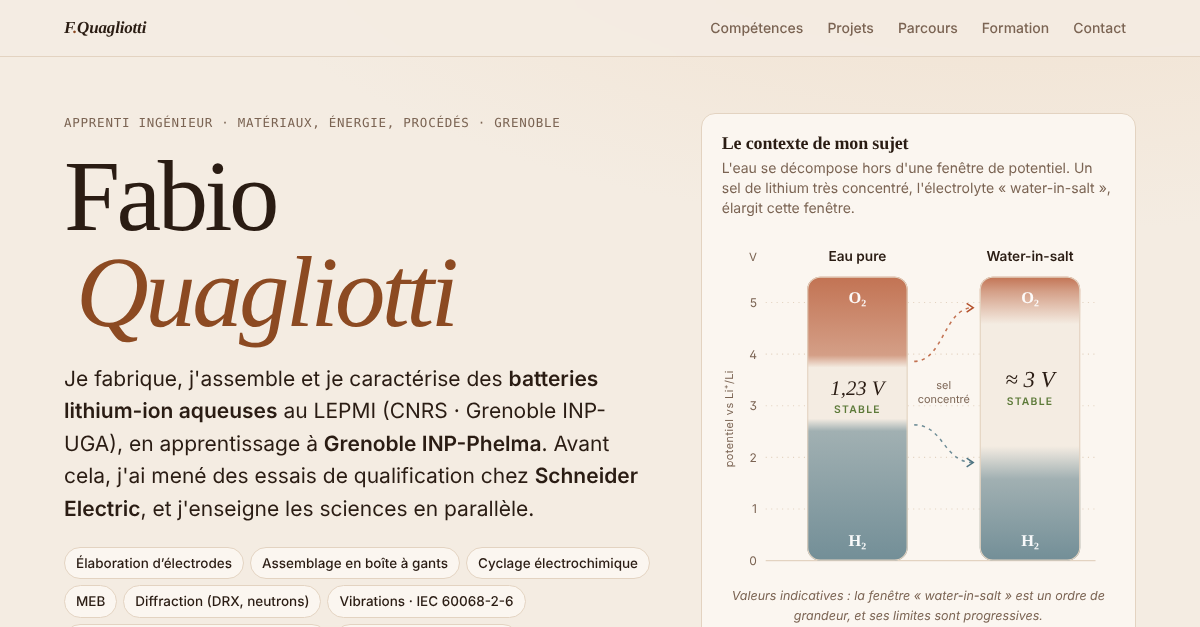
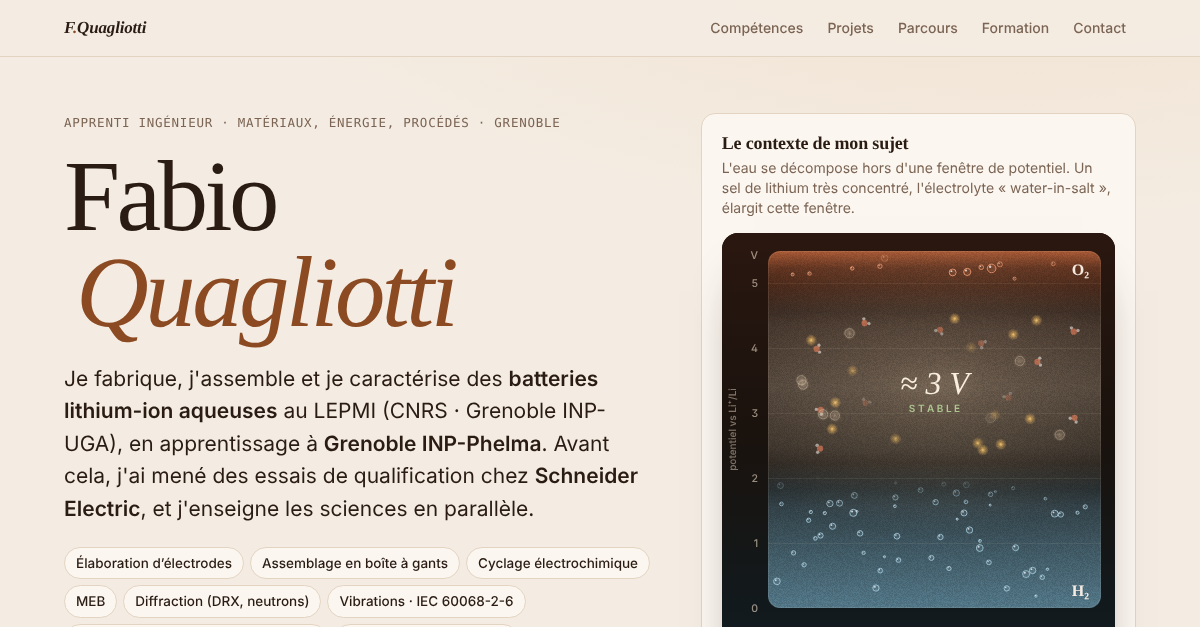
Add files via upload

Changed region(s): [[0.5858, 0.3636, 0.9558, 1.0]]

diff --git a/index.html b/index.html
@@ -456,6 +456,21 @@ table.def td:first-child{font-family:var(--mono);font-size:12.5px;color:var(--ac
 /* --- v9 : pas de panneaux collants sur mobile --- */
 @media (max-width:900px){ .proj-grid aside{position:static} }
 @media (max-width:860px){ .evidence{position:static;scroll-margin-top:72px} }
+
+/* --- v10 : cellule animée --- */
+.eswfig{margin:4px 0 16px;border-radius:16px;overflow:hidden;background:#1A120D;box-shadow:0 26px 50px -32px rgba(40,18,6,.85), inset 0 0 0 1px rgba(255,230,205,.06)}
+.eswfig canvas{display:block;width:100%;height:380px}
+.eswctl{display:grid;grid-template-columns:auto 1fr auto;gap:14px;align-items:center;padding:10px 16px 16px;background:linear-gradient(#111A1E,#0F1517)}
+.eswctl button{background:none;border:0;color:#EADCCB;font:600 12.5px/1.2 var(--body);cursor:pointer;padding:6px 0;opacity:.55;transition:opacity .2s}
+.eswctl button[aria-pressed="true"]{opacity:1}
+.eswctl button:hover{opacity:.9}
+.eswctl .trk{position:relative;padding-bottom:16px}
+.eswctl input[type=range]{-webkit-appearance:none;appearance:none;width:100%;height:4px;border-radius:4px;margin:8px 0 0;background:linear-gradient(90deg,rgba(241,222,198,.18),rgba(241,222,198,.85));cursor:pointer}
+.eswctl input[type=range]::-webkit-slider-thumb{-webkit-appearance:none;appearance:none;width:18px;height:18px;border-radius:50%;background:#F6E7D3;border:0;box-shadow:0 0 0 5px rgba(246,231,211,.14),0 0 18px rgba(246,214,170,.7)}
+.eswctl input[type=range]::-moz-range-thumb{width:18px;height:18px;border-radius:50%;background:#F6E7D3;border:0;box-shadow:0 0 0 5px rgba(246,231,211,.14),0 0 18px rgba(246,214,170,.7)}
+.eswctl input[type=range]:focus-visible{outline:2px solid #F6E7D3;outline-offset:6px}
+.eswctl .mid{position:absolute;left:50%;bottom:0;transform:translateX(-50%);font:500 11px/1 var(--body);color:#B9A08A;white-space:nowrap;letter-spacing:.02em}
+@media (max-width:420px){ .eswctl{gap:10px;padding:10px 12px 14px} .eswctl button{font-size:11.5px} }
 </style>
 </head>
 <body>
@@ -492,7 +507,14 @@ table.def td:first-child{font-family:var(--mono);font-size:12.5px;color:var(--ac
       <aside class="esw" aria-labelledby="esw-t">
         <h2 id="esw-t">Le contexte de mon sujet</h2>
         <p class="sub">L'eau se décompose hors d'une fenêtre de potentiel. Un sel de lithium très concentré, l'électrolyte « water-in-salt », élargit cette fenêtre.</p>
-        <svg id="esw-svg" viewBox="0 0 360 320" role="img" aria-label="Comparaison sur une même échelle de potentiel : la fenêtre de stabilité de l'eau pure, 1,23 volt, et celle d'un électrolyte water-in-salt, de l'ordre de 3 volts."></svg>
+        <figure class="eswfig">
+          <canvas id="esw-cv" role="img" aria-label="Cellule animée sur une échelle de potentiel. En haut, l'oxydation de l'eau dégage de l'O₂ ; en bas, sa réduction dégage de l'H₂ ; au centre, la zone où l'électrolyte est stable. Avec un sel concentré, la fenêtre stable passe de 1,23 V pour l'eau pure à environ 3 V pour l'électrolyte water-in-salt."></canvas>
+          <div class="eswctl">
+            <button type="button" id="esw-bw" aria-pressed="false">Eau pure</button>
+            <div class="trk"><input type="range" id="esw-r" min="0" max="100" step="any" value="0" aria-label="Concentration en sel, de l'eau pure à l'électrolyte water-in-salt"><span class="mid" aria-hidden="true">sel concentré →</span></div>
+            <button type="button" id="esw-bs" aria-pressed="true">Water-in-salt</button>
+          </div>
+        </figure>
         <div class="eqs">
           <p><span class="eq-k"><i style="background:var(--oer)"></i>Oxydation · haut</span><span class="eq">4 OH⁻ → O₂ + 2 H₂O + 4 e⁻</span></p>
           <p><span class="eq-k"><i style="background:var(--her)"></i>Réduction · bas</span><span class="eq">2 H₂O + 2 e⁻ → H₂ + 2 OH⁻</span></p>
@@ -1052,62 +1074,200 @@ function route(){
 }
 window.addEventListener('hashchange',route);
 
-/* Widget fenêtre de stabilité : deux colonnes sur une même échelle (ordres de grandeur) */
+/* Widget fenêtre de stabilité : cellule animée (canvas), mêmes contenus que la version précédente */
 (function(){
-  const svg=$('#esw-svg'); if(!svg) return;
-  const VMAX=5.5, T=40, B=300, yv=v=>B-(B-T)*v/VMAX;
-  const WATER={her:2.63,oer:3.86,f:.12}, WISE={her:1.9,oer:4.9,f:.32};
-  const CA={x:78,w:92}, CB={x:236,w:92};
-  const D='font-family:var(--display);', S='font-family:var(--body);';
-  function grad(id,st){ const o=v=>Math.max(0,Math.min(1,(yv(v)-T)/(B-T)));
-    return `<linearGradient id="${id}" x1="0" y1="${T}" x2="0" y2="${B}" gradientUnits="userSpaceOnUse">
-      <stop offset="0" stop-color="var(--oer)" stop-opacity=".78"/>
-      <stop offset="${o(st.oer+st.f)}" stop-color="var(--oer)" stop-opacity=".5"/>
-      <stop offset="${o(st.oer-st.f)}" stop-color="var(--oer)" stop-opacity="0"/>
-      <stop offset="${o(st.her+st.f)}" stop-color="var(--her)" stop-opacity="0"/>
-      <stop offset="${o(st.her-st.f)}" stop-color="var(--her)" stop-opacity=".5"/>
-      <stop offset="1" stop-color="var(--her)" stop-opacity=".78"/></linearGradient>`; }
-  function col(c,id,st,title,label,approx){
-    const mid=(yv(st.oer)+yv(st.her))/2;
-    let s=`<text x="${c.x+c.w/2}" y="${T-14}" text-anchor="middle" style="${S}font-size:12.5px;font-weight:600;fill:var(--ink)">${title}</text>`;
-    s+=`<rect x="${c.x}" y="${T}" width="${c.w}" height="${B-T}" rx="12" fill="var(--paper)"/>`;
-    s+=`<rect x="${c.x}" y="${T}" width="${c.w}" height="${B-T}" rx="12" fill="url(#${id})"/>`;
-    s+=`<rect x="${c.x+.5}" y="${T+.5}" width="${c.w-1}" height="${B-T-1}" rx="11.5" fill="none" stroke="var(--line)"/>`;
-    s+=`<text x="${c.x+c.w/2}" y="${T+24}" text-anchor="middle" style="${D}font-size:15px;font-weight:600;fill:#fff;opacity:.95">O₂</text>`;
-    s+=`<text x="${c.x+c.w/2}" y="${B-13}" text-anchor="middle" style="${D}font-size:15px;font-weight:600;fill:#fff;opacity:.95">H₂</text>`;
-    s+=`<text x="${c.x+c.w/2}" y="${mid+2}" text-anchor="middle" style="${D}font-size:${approx?21:19}px;font-style:italic;fill:var(--ink)">${label}</text>`;
-    s+=`<text x="${c.x+c.w/2}" y="${mid+18}" text-anchor="middle" style="${S}font-size:9.5px;letter-spacing:.12em;fill:var(--ok);font-weight:600">STABLE</text>`;
-    return s; }
-  function draw(b){
-    let s=`<defs>${grad('ga',WATER)}${grad('gb',b)}</defs>`;
-    for(let v=0;v<=5;v++){ s+=`<line x1="40" x2="${CB.x+CB.w+14}" y1="${yv(v)}" y2="${yv(v)}" stroke="var(--line)" stroke-width="1" stroke-dasharray="${v?'1 4':''}"/>`;
-      s+=`<text x="32" y="${yv(v)+4}" text-anchor="end" style="${S}font-size:11px;fill:var(--muted)">${v}</text>`; }
-    s+=`<text x="32" y="${T-14}" text-anchor="end" style="${S}font-size:10.5px;fill:var(--muted)">V</text>`;
-    s+=`<text x="10" y="${(T+B)/2}" text-anchor="middle" transform="rotate(-90 10 ${(T+B)/2})" style="${S}font-size:10px;fill:var(--muted);letter-spacing:.04em">potentiel vs Li⁺/Li</text>`;
-    // connecteurs d'élargissement
-    const x1=CA.x+CA.w+6, x2=CB.x-6;
-    s+=`<path d="M${x1} ${yv(WATER.oer)} C ${(x1+x2)/2} ${yv(WATER.oer)}, ${(x1+x2)/2} ${yv(b.oer)}, ${x2} ${yv(b.oer)}" fill="none" stroke="var(--oer)" stroke-width="1.4" stroke-dasharray="3 4" opacity=".8"/>`;
-    s+=`<path d="M${x1} ${yv(WATER.her)} C ${(x1+x2)/2} ${yv(WATER.her)}, ${(x1+x2)/2} ${yv(b.her)}, ${x2} ${yv(b.her)}" fill="none" stroke="var(--her)" stroke-width="1.4" stroke-dasharray="3 4" opacity=".8"/>`;
-    s+=`<path d="M${x2-6} ${yv(b.oer)-4} L${x2} ${yv(b.oer)} L${x2-6} ${yv(b.oer)+4}" fill="none" stroke="var(--oer)" stroke-width="1.4"/>`;
-    s+=`<path d="M${x2-6} ${yv(b.her)-4} L${x2} ${yv(b.her)} L${x2-6} ${yv(b.her)+4}" fill="none" stroke="var(--her)" stroke-width="1.4"/>`;
-    s+=`<text x="${(x1+x2)/2}" y="${(yv(b.oer)+yv(b.her))/2+4}" text-anchor="middle" style="${S}font-size:10px;fill:var(--muted)">sel</text>`;
-    s+=`<text x="${(x1+x2)/2}" y="${(yv(b.oer)+yv(b.her))/2+16}" text-anchor="middle" style="${S}font-size:10px;fill:var(--muted)">concentré</text>`;
-    s+=col(CA,'ga',WATER,'Eau pure','1,23 V',false);
-    s+=col(CB,'gb',b,'Water-in-salt','≈ 3 V',true);
-    svg.innerHTML=s; }
+  const cv=$('#esw-cv'); if(!cv) return;
+  const ctx=cv.getContext('2d');
+  const R=$('#esw-r'), bW=$('#esw-bw'), bS=$('#esw-bs');
   const reduce=matchMedia('(prefers-reduced-motion: reduce)').matches;
-  if(reduce){ draw(WISE); return; }
-  draw(WISE);
-  // petite animation d'élargissement, depuis un état final déjà visible
-  setTimeout(()=>{ const t0=performance.now(), dur=1100;
-    const step=now=>{ const k=Math.min(1,(now-t0)/dur), e=k<.5?4*k*k*k:1-Math.pow(-2*k+2,3)/2;
-      const m=(a,b)=>a+(b-a)*e;
-      draw({her:m(WATER.her,WISE.her),oer:m(WATER.oer,WISE.oer),f:m(WATER.f,WISE.f)}); if(k<1) requestAnimationFrame(step); };
-    requestAnimationFrame(step); }, 350);
-  svg.addEventListener('click',()=>{ const t0=performance.now(), dur=1100;
-    const step=now=>{ const k=Math.min(1,(now-t0)/dur), e=k<.5?4*k*k*k:1-Math.pow(-2*k+2,3)/2, m=(a,b)=>a+(b-a)*e;
-      draw({her:m(WATER.her,WISE.her),oer:m(WATER.oer,WISE.oer),f:m(WATER.f,WISE.f)}); if(k<1) requestAnimationFrame(step); };
-    requestAnimationFrame(step); });
+  const S0={her:2.63,oer:3.86,f:.12}, S1={her:1.9,oer:4.9,f:.34};
+  const VMAX=5.5, TAU=Math.PI*2;
+  const lerp=(a,b,k)=>a+(b-a)*k, clamp=(v,a,b)=>Math.max(a,Math.min(b,v)), rnd=(a,b)=>a+Math.random()*(b-a);
+  const ease=k=>k<.5?4*k*k*k:1-Math.pow(-2*k+2,3)/2;
+  const DISP='Fraunces, "Iowan Old Style", Georgia, serif', BODY='"Hanken Grotesk", system-ui, sans-serif';
+  let W=0,H=0,dpr=1,t=reduce?1:0,target=reduce?1:0,time=0,last=0,raf=0,running=false,started=false;
+  let accO=0,accH=0,inView=false,dragging=false,grain=null; const bubbles=[];
+
+  /* molécules de la zone stable : eau toujours présente, ions du sel selon la concentration */
+  const water=[...Array(16)].map(()=>({u:rnd(.04,.96),w:rnd(.08,.92),ph:rnd(0,TAU),sp:rnd(.25,.6),rot:rnd(0,TAU),rs:rnd(-.5,.5)}));
+  const li=[...Array(14)].map(()=>({u:rnd(.04,.96),w:rnd(.08,.92),ph:rnd(0,TAU),sp:rnd(.3,.7)}));
+  const an=[...Array(9)].map(()=>({u:rnd(.04,.96),w:rnd(.1,.9),ph:rnd(0,TAU),sp:rnd(.2,.45)}));
+
+  function makeGrain(){ const c=document.createElement('canvas'); c.width=c.height=120; const x=c.getContext('2d'); const d=x.createImageData(120,120);
+    for(let i=0;i<d.data.length;i+=4){ const v=Math.random()*255; d.data[i]=d.data[i+1]=d.data[i+2]=v; d.data[i+3]=22; } x.putImageData(d,0,0); grain=ctx.createPattern(c,'repeat'); }
+  function size(){
+    const w=cv.clientWidth||360; dpr=Math.min(2,window.devicePixelRatio||1);
+    W=w; H=Math.round(clamp(w*1.0,330,430));
+    cv.width=Math.round(W*dpr); cv.height=Math.round(H*dpr); cv.style.height=H+'px';
+    ctx.setTransform(dpr,0,0,dpr,0,0);
+  }
+  const G=()=>({L:46,R:W-14,T:18,B:H-18});
+  const st=()=>{ const k=ease(clamp(t,0,1)); return {her:lerp(S0.her,S1.her,k),oer:lerp(S0.oer,S1.oer,k),f:lerp(S0.f,S1.f,k)}; };
+  const yv=(v,g)=>g.B-(g.B-g.T)*v/VMAX;
+
+  function spawn(dt){
+    const g=G(), s=st(), yO=yv(s.oer,g), yH=yv(s.her,g);
+    const hO=yO-g.T, hH=g.B-yH;
+    accO+=dt*Math.max(0,hO)/9; accH+=dt*Math.max(0,hH)/9;
+    while(accO>1 && bubbles.length<170){ accO--; bubbles.push({k:0,x:rnd(g.L+8,g.R-8),y:rnd(yO-hO*.35,yO+4),r:rnd(1.1,4.4),vy:rnd(14,36),ph:rnd(0,TAU)}); }
+    while(accH>1 && bubbles.length<170){ accH--; bubbles.push({k:1,x:rnd(g.L+8,g.R-8),y:rnd(g.B-hH*.35,g.B-2),r:rnd(1,3.6),vy:rnd(16,42),ph:rnd(0,TAU)}); }
+    accO=Math.min(accO,3); accH=Math.min(accH,3);
+  }
+  function update(dt){
+    time+=dt;
+    t+= (target-t)*Math.min(1,dt*2.4);
+    if(Math.abs(target-t)<.0005) t=target;
+    spawn(dt);
+    const g=G(), s=st(), yO=yv(s.oer,g), yH=yv(s.her,g), fp=(g.B-g.T)*s.f/VMAX;
+    for(let i=bubbles.length-1;i>=0;i--){
+      const b=bubbles[i]; b.y-=b.vy*dt; b.x+=Math.sin(time*1.6+b.ph)*.18;
+      if(b.k===0){ b.a=clamp((b.y-g.T)/18,0,1)*clamp((yO+fp*.6-b.y)/(fp+8),0,1); if(b.y<g.T-6) bubbles.splice(i,1); }
+      else { b.a=clamp((b.y-(yH-fp*.4))/(fp+12),0,1)*clamp((g.B-b.y)/10,0,1); if(b.y<yH-fp) bubbles.splice(i,1); }
+    }
+  }
+
+  function draw(){
+    const g=G(), s=st(), yO=yv(s.oer,g), yH=yv(s.her,g), fp=(g.B-g.T)*s.f/VMAX, pw=g.R-g.L;
+    ctx.clearRect(0,0,W,H);
+    // fond de la cellule
+    let gr=ctx.createLinearGradient(0,0,0,H);
+    gr.addColorStop(0,'#2A1710'); gr.addColorStop(.5,'#1A120D'); gr.addColorStop(1,'#111A1E');
+    ctx.fillStyle=gr; ctx.fillRect(0,0,W,H);
+
+    ctx.save(); ctx.beginPath(); ctx.roundRect(g.L,g.T,pw,g.B-g.T,12); ctx.clip();
+    // zone d'oxydation (haut)
+    const topEnd=Math.min(g.B,yO+fp);
+    gr=ctx.createLinearGradient(0,g.T,0,topEnd);
+    gr.addColorStop(0,'rgba(222,118,70,.70)');
+    gr.addColorStop(clamp((yO-fp-g.T)/(topEnd-g.T),0,1),'rgba(222,118,70,.32)');
+    gr.addColorStop(1,'rgba(222,118,70,0)');
+    ctx.fillStyle=gr; ctx.fillRect(g.L,g.T,pw,topEnd-g.T);
+    // zone de réduction (bas)
+    const botStart=Math.max(g.T,yH-fp);
+    gr=ctx.createLinearGradient(0,botStart,0,g.B);
+    gr.addColorStop(0,'rgba(110,158,180,0)');
+    gr.addColorStop(clamp((2*fp)/(g.B-botStart),0,1),'rgba(110,158,180,.32)');
+    gr.addColorStop(1,'rgba(110,158,180,.70)');
+    ctx.fillStyle=gr; ctx.fillRect(g.L,botStart,pw,g.B-botStart);
+    // halo de la zone stable
+    const s0=yO-fp*.2, s1=yH+fp*.2;
+    gr=ctx.createLinearGradient(0,s0,0,s1);
+    gr.addColorStop(0,'rgba(248,232,208,0)'); gr.addColorStop(.2,'rgba(248,232,208,.13)');
+    gr.addColorStop(.5,'rgba(248,232,208,.20)'); gr.addColorStop(.8,'rgba(248,232,208,.13)'); gr.addColorStop(1,'rgba(248,232,208,0)');
+    ctx.fillStyle=gr; ctx.fillRect(g.L,s0,pw,s1-s0);
+    // lueur centrale
+    { const mcx=(g.L+g.R)/2, mcy=(yO+yH)/2, rr=Math.max(60,(yH-yO)*.75);
+      ctx.save(); ctx.translate(mcx,mcy); ctx.scale(1.7,1);
+      const bl=ctx.createRadialGradient(0,0,0,0,0,rr); bl.addColorStop(0,'rgba(255,226,186,.20)'); bl.addColorStop(1,'rgba(255,226,186,0)');
+      ctx.fillStyle=bl; ctx.beginPath(); ctx.arc(0,0,rr,0,TAU); ctx.fill(); ctx.restore(); }
+
+    // grille de potentiel
+    ctx.lineWidth=1;
+    for(let v=1;v<=5;v++){ const y=Math.round(yv(v,g))+.5; ctx.strokeStyle='rgba(255,236,214,.07)'; ctx.beginPath(); ctx.moveTo(g.L,y); ctx.lineTo(g.R,y); ctx.stroke(); }
+
+    // molécules dans la zone stable
+    const cx=(g.L+g.R)/2, cy=(yO+yH)/2, pad=10;
+    const band0=yO+pad, band1=yH-pad;
+    const fadeEdge=y=>clamp((y-yO)/(fp+6),0,1)*clamp((yH-y)/(fp+6),0,1);
+    const fadeCenter=(x,y)=>clamp((Math.hypot((x-cx)/1.6,y-cy)-34)/30,0,1);
+    const k=ease(clamp(t,0,1));
+    water.forEach(m=>{
+      const x=g.L+14+m.u*(pw-28)+Math.sin(time*m.sp+m.ph)*5, y=lerp(band0,band1,m.w)+Math.cos(time*m.sp*.8+m.ph)*4;
+      const a=.62*fadeEdge(y)*fadeCenter(x,y); if(a<.02) return;
+      const ang=m.rot+time*m.rs*.4;
+      for(const d of [-0.91,0.91]){ ctx.beginPath(); ctx.arc(x+Math.cos(ang+d)*4.4,y+Math.sin(ang+d)*4.4,1.7,0,TAU); ctx.fillStyle=`rgba(255,250,244,${a*.85})`; ctx.fill(); }
+      ctx.beginPath(); ctx.arc(x,y,3.1,0,TAU); ctx.fillStyle=`rgba(232,128,92,${a})`; ctx.fill();
+    });
+    an.forEach((m,i)=>{
+      const vis=clamp(k*an.length-i,0,1); if(vis<=0) return;
+      const x=g.L+14+m.u*(pw-28)+Math.sin(time*m.sp+m.ph)*6, y=lerp(band0,band1,m.w)+Math.cos(time*m.sp+m.ph)*5;
+      const a=vis*fadeEdge(y)*fadeCenter(x,y); if(a<.02) return;
+      const rg=ctx.createRadialGradient(x,y,0,x,y,7); rg.addColorStop(0,`rgba(214,190,160,${.42*a})`); rg.addColorStop(1,'rgba(214,190,160,0)');
+      ctx.fillStyle=rg; ctx.beginPath(); ctx.arc(x,y,7,0,TAU); ctx.fill();
+      ctx.strokeStyle=`rgba(232,212,186,${.45*a})`; ctx.lineWidth=.8; ctx.beginPath(); ctx.arc(x,y,4.6,0,TAU); ctx.stroke();
+    });
+    li.forEach((m,i)=>{
+      const vis=clamp(k*li.length-i,0,1); if(vis<=0) return;
+      const x=g.L+14+m.u*(pw-28)+Math.sin(time*m.sp+m.ph)*4, y=lerp(band0,band1,m.w)+Math.cos(time*m.sp*1.1+m.ph)*4;
+      const a=vis*fadeEdge(y)*fadeCenter(x,y); if(a<.02) return;
+      const rg=ctx.createRadialGradient(x,y,0,x,y,6); rg.addColorStop(0,`rgba(250,206,120,${.95*a})`); rg.addColorStop(.35,`rgba(240,186,96,${.55*a})`); rg.addColorStop(1,'rgba(240,186,96,0)');
+      ctx.fillStyle=rg; ctx.beginPath(); ctx.arc(x,y,6,0,TAU); ctx.fill();
+    });
+
+    // bulles de gaz
+    bubbles.forEach(b=>{
+      const a=b.a||0; if(a<.02) return;
+      const c=b.k===0?'246,160,118':'170,206,222';
+      ctx.beginPath(); ctx.arc(b.x,b.y,b.r,0,TAU);
+      ctx.fillStyle=`rgba(${c},${.12*a})`; ctx.fill();
+      ctx.lineWidth=1; ctx.strokeStyle=`rgba(${c},${.8*a})`; ctx.stroke();
+      ctx.beginPath(); ctx.arc(b.x-b.r*.35,b.y-b.r*.38,Math.max(.5,b.r*.28),0,TAU); ctx.fillStyle=`rgba(255,255,255,${.75*a})`; ctx.fill();
+    });
+
+    // étiquettes des zones
+    ctx.font=`600 16px ${DISP}`; ctx.textAlign='right'; ctx.textBaseline='alphabetic';
+    ctx.fillStyle='rgba(255,244,234,.94)'; ctx.fillText('O₂',g.R-12,g.T+24);
+    ctx.fillText('H₂',g.R-12,g.B-12);
+    if(grain){ ctx.fillStyle=grain; ctx.globalCompositeOperation='overlay'; ctx.fillRect(g.L,g.T,pw,g.B-g.T); ctx.globalCompositeOperation='source-over'; }
+    ctx.restore();
+
+    // contour de la cellule
+    ctx.strokeStyle='rgba(255,236,214,.10)'; ctx.lineWidth=1; ctx.beginPath(); ctx.roundRect(g.L+.5,g.T+.5,pw-1,g.B-g.T-1,12); ctx.stroke();
+
+    // valeur de la fenêtre
+    const aW=clamp(1-(k-.3)/.4,0,1), aS=1-aW;
+    ctx.textAlign='center';
+    ctx.font=`italic 500 ${W<340?28:32}px ${DISP}`;
+    ctx.shadowColor='rgba(255,220,180,.35)'; ctx.shadowBlur=18;
+    if(aW>.01){ ctx.fillStyle=`rgba(250,238,222,${aW})`; ctx.fillText('1,23 V',cx,cy+7-(1-aW)*6); }
+    if(aS>.01){ ctx.fillStyle=`rgba(250,238,222,${aS})`; ctx.fillText('≈ 3 V',cx,cy+7+(1-aS)*6); }
+    ctx.shadowBlur=0;
+    ctx.font=`600 10px ${BODY}`; ctx.fillStyle='rgba(178,204,148,.95)';
+    ctx.fillText('S T A B L E',cx,cy+25);
+
+    // axe des potentiels
+    ctx.font=`500 10.5px ${BODY}`; ctx.textAlign='right'; ctx.fillStyle='rgba(232,214,194,.62)';
+    for(let v=0;v<=5;v++) ctx.fillText(String(v),g.L-10,yv(v,g)+3.5);
+    ctx.fillText('V',g.L-10,g.T+8);
+    ctx.save(); ctx.translate(14,(g.T+g.B)/2); ctx.rotate(-Math.PI/2); ctx.textAlign='center';
+    ctx.font=`500 10px ${BODY}`; ctx.fillStyle='rgba(232,214,194,.5)'; ctx.fillText('potentiel vs Li⁺/Li',0,0); ctx.restore();
+  }
+
+  function frame(now){
+    const dt=Math.min(.05,last?(now-last)/1000:0); last=now;
+    update(dt); draw();
+    if(!dragging) R.value=(t*100).toFixed(1);
+    syncCtl();
+    if(running) raf=requestAnimationFrame(frame);
+  }
+  function start(){ if(running||reduce) return; running=true; last=0; raf=requestAnimationFrame(frame); }
+  function stop(){ running=false; cancelAnimationFrame(raf); }
+  function syncCtl(){
+    bW.setAttribute('aria-pressed', target<.5); bS.setAttribute('aria-pressed', target>=.5);
+  }
+  function setTarget(v){ target=clamp(v,0,1); R.value=Math.round(target*100); if(reduce){ t=target; draw(); syncCtl(); } }
+
+  R.addEventListener('pointerdown',()=>dragging=true); window.addEventListener('pointerup',()=>dragging=false);
+  R.addEventListener('input',()=>{ target=R.value/100; if(reduce){ t=target; draw(); } syncCtl(); });
+  bW.addEventListener('click',()=>setTarget(0));
+  bS.addEventListener('click',()=>setTarget(1));
+
+  makeGrain(); size();
+  // amorce : quelques secondes de bulles déjà présentes
+  for(let i=0;i<120;i++) update(1/30);
+  R.value=Math.round(target*100);
+  draw(); syncCtl();
+  if(document.fonts&&document.fonts.ready) document.fonts.ready.then(draw);
+
+  new ResizeObserver(()=>{ size(); draw(); }).observe(cv);
+  if(!reduce){
+    new IntersectionObserver(es=>es.forEach(e=>{
+      inView=e.isIntersecting;
+      if(inView){ start(); if(!started){ started=true; setTimeout(()=>setTarget(1),500); } }
+      else stop();
+    }),{threshold:.15}).observe(cv);
+    document.addEventListener('visibilitychange',()=>{ if(document.hidden) stop(); else if(inView) start(); });
+  }
 })();
 
 /* Contact */
